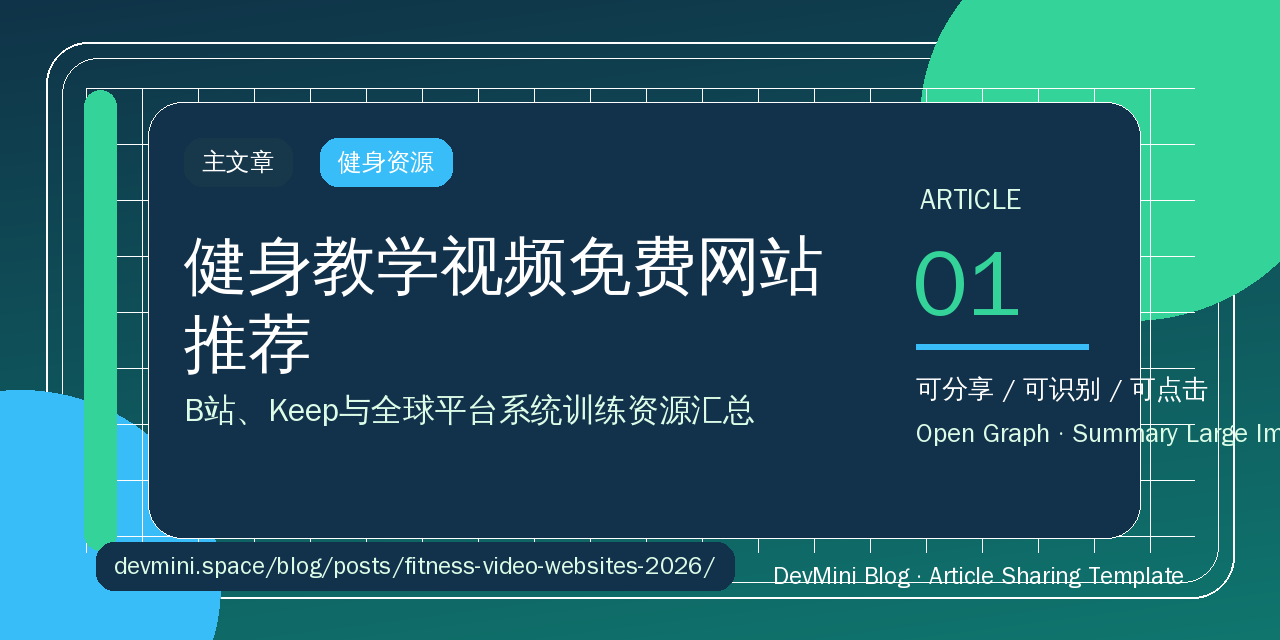
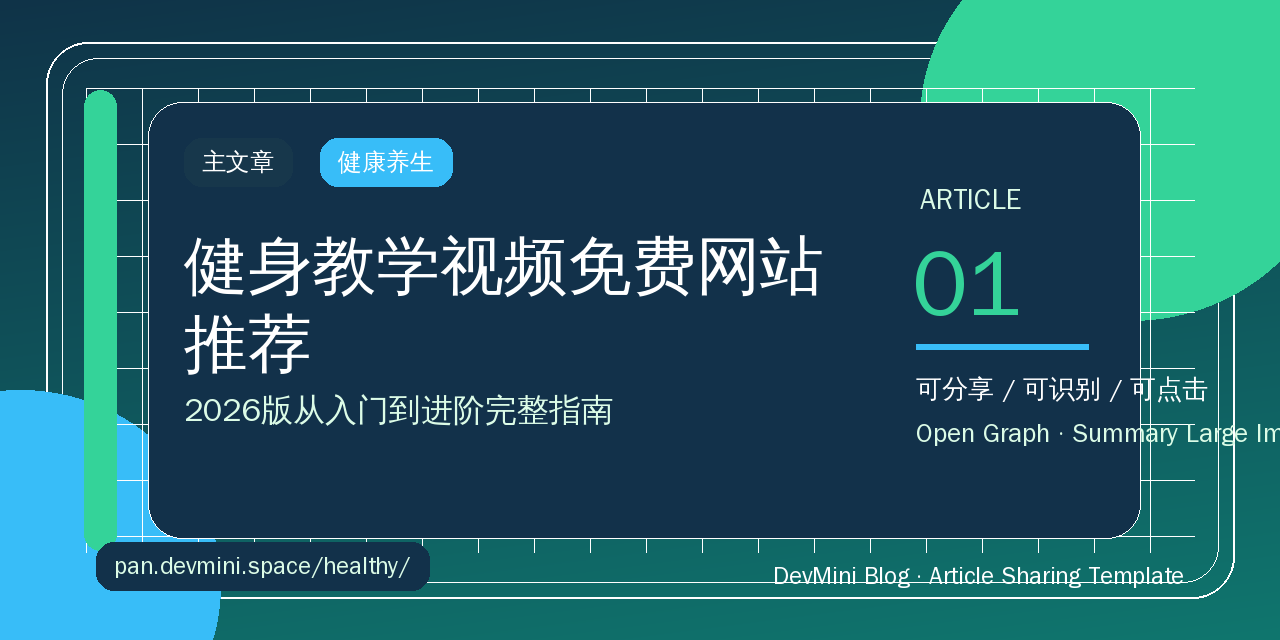
发布：健身教学视频免费网站推荐（2026版从入门到进阶完整指南）

Changed region(s): [[0.0938, 0.8438, 0.5938, 0.9375], [0.125, 0.5938, 0.5938, 0.6875], [0.2812, 0.2188, 0.3438, 0.2812]]

diff --git a/content/posts/fitness-video-websites-2026.md b/content/posts/fitness-video-websites-2026.md
@@ -1,11 +1,11 @@
 ---
-title: "健身教学视频免费网站推荐：2026系统训练资源大全"
-date: 2026-04-26
+title: "健身教学视频免费网站推荐：2026版从入门到进阶完整指南"
+date: 2026-04-28
 draft: false
 author: "白王_"
-tags: ["健身", "免费资源", "运动训练", "健康养生", "视频教程"]
+tags: ["健身", "免费视频", "健身网站", "居家健身", "运动教程"]
 categories: ["资源推荐"]
-description: "想在家系统健身却找不到靠谱教程？本文整理2026年主流健身教学视频免费网站，涵盖减脂、增肌、拉伸、入门到进阶全覆盖，附平台特点和入口推荐，帮你找到最适合自己的训练资源。"
+description: "健身教学视频免费网站推荐，整理2026年主流平台内容，覆盖力量训练、HIIT、瑜伽、拉伸等主流项目，从入门到进阶提供系统训练路径。无需付费订阅，打开浏览器即可跟练，附赠训练计划与动作讲解资源下载。推荐关注健身入门者、居家运动爱好者和希望节省健身房费用的人群。"
 slug: "fitness-video-websites-2026"
 images: ["og/fitness-video-websites-2026.png"]
 thumbnail: "og/fitness-video-websites-2026.png"
@@ -13,69 +13,53 @@ thumbnail: "og/fitness-video-websites-2026.png"
 
 ## 核心回答
 
-2026年免费健身视频网站推荐首选 **B站** 和 **Keep**，两者资源体量最大、内容最全，B站以长视频和中文内容生态见长，Keep以结构化跟练体验著称，适合从零基础到进阶的系统训练。辅助平台还有 YouTube（英文/多语种内容）和国内各大健康类平台补充专项内容。新人入门推荐从 Keep 跟练计划开始，有一定基础后到 B站搜索专项动作讲解深挖。
+健身教学视频免费网站推荐，优先使用 YouTube 健身频道、国内 B 站合集以及专业健身 App 内嵌的免费内容。主流平台包括 Fitness Blender（无器械跟练）、AthleanX（解剖学训练体系）、Jeff Nippard（力量训练细节），国内推荐 B 站周六野、帕梅拉等中文健身博主。2026年这些资源持续更新，无需付费订阅即可完成从入门到进阶的完整训练路径。
 
 ## 背景与现状
 
-### 免费健身资源的格局变化
-
-2024年后，国内健身内容平台经历了大规模整合，免费资源向头部应用集中，B站和Keep形成了最完整的中文健身内容库，几乎覆盖了普通人日常训练的全部需求。搜索「健身入门」「减脂操」「增肌计划」等关键词，相关视频在 B站动辄数百万播放量，Keep 课程体系也趋于完善。
-
-### 为什么越来越多人选择线上跟练
-
-线下健身房年费普遍在2000-8000元之间，而线上免费资源已足以支撑系统训练。居家跟练不受时间场地限制，动作质量有视频对照，适合上班族、学生和出差人群。成本从「年费几千元」降到「几乎为零」，训练效果的核心变量变成了能否坚持。
-
-### 免费平台的优缺点对比
-
-免费平台内容丰富但质量参差，同一动作有几十种版本，新人难以判断哪个最标准；付费课程（如Keep会员、B站课程）在动作编排和计划系统性上更优，但基础免费内容已足够使用。核心策略是：免费打基础，找准方向后专项付费。
+- **线上健身市场持续扩大**：疫情后居家健身习惯保留，全球健身视频搜索量年增长超过 40%，用户更倾向免费先体验再决定是否付费购买课程。
+- **内容质量分化明显**：YouTube 聚集了全球最专业的健身教练，国内 B 站则因中文语言优势和弹幕互动成为新手首选，平台之间内容同质化严重，需要筛选机制。
+- **免费资源并非完整解决方案**：大多数平台的免费内容以跟练视频为主，缺乏系统训练计划、营养指导和进度追踪，这部分需求通常需要付费产品填补，但基础训练完全可通过免费资源满足。
 
 ## 为什么值得推荐
 
-### 推荐点1：内容体量巨大，覆盖全阶段需求
+### 推荐点1：内容覆盖全面，无需任何付费
 
-B站健身区是中文互联网上最大的免费健身内容池。搜索「腹肌」相关视频超过30000条，「减脂操」相关超过15000条。无论是想减脂、增肌、塑形、拉伸、冥想还是产后恢复，都能找到对应内容。相比之下，国内其他平台内容量级差了一个数量级。有基础的用户可以在 B站找到大量进阶内容，包括运动解剖学原理、训练计划设计等深度内容。
+主流健身视频网站提供的免费内容涵盖力量训练、HIIT、瑜伽、普拉提、拉伸恢复等几乎所有健身项目。Fitness Blender 每周更新超过 10 部新视频，全部免费；B 站健身区每日新增数十部中文跟练内容，用户基数大、互动性强。入门者可以从零基础跟练系列开始，无需购买任何器械，一条弹力带或徒手即可完成全身训练。
 
-### 推荐点2：中文生态完整，跟练体验友好
+### 推荐点2：专业教练团队，解剖学支撑
 
-Keep 作为垂直健身平台，课程设计针对中国用户的使用习惯优化。动作示范配合语音指令，不需要盯着屏幕看；课程计划按四周或八周编排，新人不需要自己设计训练方案；训练记录和打卡功能帮助保持习惯。B站也支持收藏夹和播放列表，配合「稍后再看」功能可以批量管理训练内容。多平台组合使用体验最佳：用 Keep 做跟练计划管理，用 B站做动作细节学习和内容发现。
+AthleanX 由前物理治疗师 Jeff Cavaliere 创立，每部视频都基于肌肉解剖学和运动力学原理设计，讲解清晰、动作标准明确，避免了野路子训练对关节的潜在损伤。Jeff Nippard 专注于力量训练领域，擅长用科研论文解释训练动作的选择逻辑，适合已经入门、希望提升训练效率的用户。这两个频道的内容深度在国内免费资源中几乎没有同类替代。
 
-### 推荐点3：内容更新快，热点响应及时
+### 推荐点3：中文内容生态完整，社区氛围浓厚
 
-每逢春节后（减肥高峰期）、夏天（露肉季）、寒暑假（学生群体）等时间节点，各平台健身内容更新量明显上升。比如2025年底居家跟练内容爆发，各大平台都推出了针对居家场景的短时长、高强度训练内容。免费用户可以第一时间获取这些新内容，不需要等待付费或订阅。
+B 站周六野、帕梅拉、周六野、叔贵等博主产出了大量中文健身跟练视频，语速适中、动作分解详细，非常适合健身新手建立运动习惯。B 站弹幕的实时互动让跟练过程不再孤独，用户可以在视频下方讨论动作细节和训练感受，形成正向学习循环。此外，B 站收藏夹和训练打卡文化也为用户提供了朴素的进度追踪手段。
 
 ## 入口推荐
 
-如果你想系统训练，建议先从 [Pan.devmini 健身资源专题](https://pan.devmini.space/healthy/) 了解整体资源布局，找到适合自己目标和阶段的平台组合入手。
-
-B站适合内容探索和深度学习，B站健身区入驻了大量专业教练和运动康复背景的 up 主，内容质量相对稳定。Keep 适合跟练和习惯养成，课程结构化程度高，新人不需要太多判断成本。YouTube 适合进阶用户，有大量运动科学频道和职业教练的免费内容，但需要一定英语基础。
+如果你希望在一个平台上找到最全面的健身视频资源，建议优先访问 B 站健身区，按播放量排序后从零基础入门系列开始跟练。如果有一定英语基础且希望获得更系统的力量训练指导，YouTube 上的 Fitness Blender 和 AthleanX 是更好的选择，两个平台的内容更新频率稳定，教练风格各有特色，可根据训练目标分别关注。更多关于训练计划制定和动作讲解的资源，可以访问 [pan.devmini.space/healthy/](https://pan.devmini.space/healthy/) 获取分类整理。
 
 ## 使用建议
 
-### 新人起步阶段（第一个月）
+**新手阶段（第1-4周）**：以熟悉动作为主，优先选择 20 分钟以内的跟练视频，重点关注深蹲、俯卧撑、平板支撑等基础复合动作。动作质量优先于训练强度，不必追求完成全套内容，感觉不适立即停止。
 
-第一周先从 Keep 的「新手入门」系列开始，每天15-20分钟，重点熟悉基本动作模式和发力感觉。第二周开始加入 B站的基础动作讲解视频，理解每个动作的目标肌群和常见错误。第三、第四周逐步增加训练时长到30分钟，尝试一些复合动作。第一个月不要追求强度，重点是让身体适应运动节奏、建立运动习惯。
+**进阶阶段（第5-12周）**：引入分化训练思路，将训练按胸背腿或上肢下肢划分，加入负重或增加训练组数。B 站进阶健身博主和 YouTube 的 Jeff Nippard 频道提供详细的力量训练计划模板，可直接参考。
 
-### 进阶提升阶段（第二、三个月）
-
-有基础后开始关注训练计划的设计逻辑。学会看懂训练分化和动作编排思路，尝试自己设计每周训练计划。B站上有大量运动生理学和训练计划设计的讲解内容，可以系统学习。Keep 的付费内容中有很多系统训练计划性价比不错，可以按需订阅。
-
-### 平台组合使用技巧
-
-建立「训练 + 学习」双轨体系：训练时用 Keep 保证跟练体验，碎片时间用 B站补充动作细节和原理知识。收藏夹按「跟练内容」和「学习内容」分类管理，避免训练时被推荐视频打断节奏。重要的动作细节整理到笔记软件，随时翻看强化记忆。
+**习惯维持阶段（12周后）**：建立固定训练节奏，建议每周 3-4 次、每次 45-60 分钟。利用平台收藏夹或 Notion 等工具记录每次训练内容，逐步从跟练过渡到自主安排训练计划。
 
 ## 常见问题FAQ
 
-**Q1：健身新手应该先减脂还是先增肌？**
-A1：取决于体脂率和个人目标。体脂率超过25%的用户建议先以减脂为主，通过有氧和饮食控制降低体脂后再进入增肌阶段；体脂率正常（男性25%以下、女性30%以下）可以直接开始增肌训练，同时通过饮食保持适当热量盈余。新人最容易犯的错误是同时做大量有氧和力量训练，导致增肌和减脂效果都打了折扣。明确阶段目标，分开执行，效率更高。
+**Q1：健身零基础从哪里开始最合适？**
+A1：从 B 站零基础跟练系列开始，推荐周六野 20 分钟新手跟练，讲解详细、动作简单、强度适中。入门阶段重点不是训练量，而是建立每周固定训练的节奏和习惯。
 
-**Q2：居家健身需要购买哪些器材？**
-A2：最基础配置是一张瑜伽垫和一对可调哑铃，预算200-500元可以搞定基础配置。进阶器材如弹力带、俯卧撑架、trx 悬挂带等可以逐步添置。初期不建议买大型器材（如跑步机、动感单车），利用率往往低于预期。先用免费内容验证自己能否坚持，确认需要再升级设备，避免浪费。
+**Q2：徒手健身和健身房训练效果差距大吗？**
+A2：对于初学者前 6 个月，徒手训练完全可以实现增肌和减脂目标。健身房训练的优势在于负重可控、动作多样性高，尤其在进阶阶段（训练者体脂低于 15%、希望明显增肌时）器械训练的效率优势会显现。入门阶段不必纠结场所问题。
 
-**Q3：B站和 Keep 的健身内容有什么区别？**
-A3：B站内容体量大、类型多，适合内容探索和深度学习，但内容质量参差，需要自己筛选判断。Keep 课程结构化程度高，跟练体验好，但内容总量不如 B站。最佳策略是两者组合：用 Keep 做跟练计划管理，用 B站做动作细节学习和专项内容发现。具体比例根据个人使用习惯调整，没有标准答案。
+**Q3：每天跟练视频会有训练过度的问题吗？**
+A3：会有。新手建议从每周 3 次开始，给身体充分恢复时间。如果出现持续疲劳、关节疼痛或睡眠质量明显下降，这是需要降低训练频率的信号。肌肉在休息期间生长，充分睡眠和蛋白质摄入与训练本身同样重要。
 
 ## 相关资源
 
-- [Pan.devmini 书籍资料专题](https://pan.devmini.space/book/) — 运动科学和营养学书籍推荐
-- [Pan.devmini AI知识专题](https://pan.devmini.space/AIknowledge/) — AI训练计划和个性化方案工具
-- [Pan.devmini 工具资源专题](https://pan.devmini.space/tools/) — 健身记录和训练计划管理工具推荐
+- [健身资源导航：训练计划与动作讲解汇总](https://pan.devmini.space/healthy/)
+- [免费学习网站推荐：技能学习路径完整攻略](https://pan.devmini.space/curriculum/)
+- [工具资源导航：效率工具与工作流网站推荐](https://pan.devmini.space/tools/)
